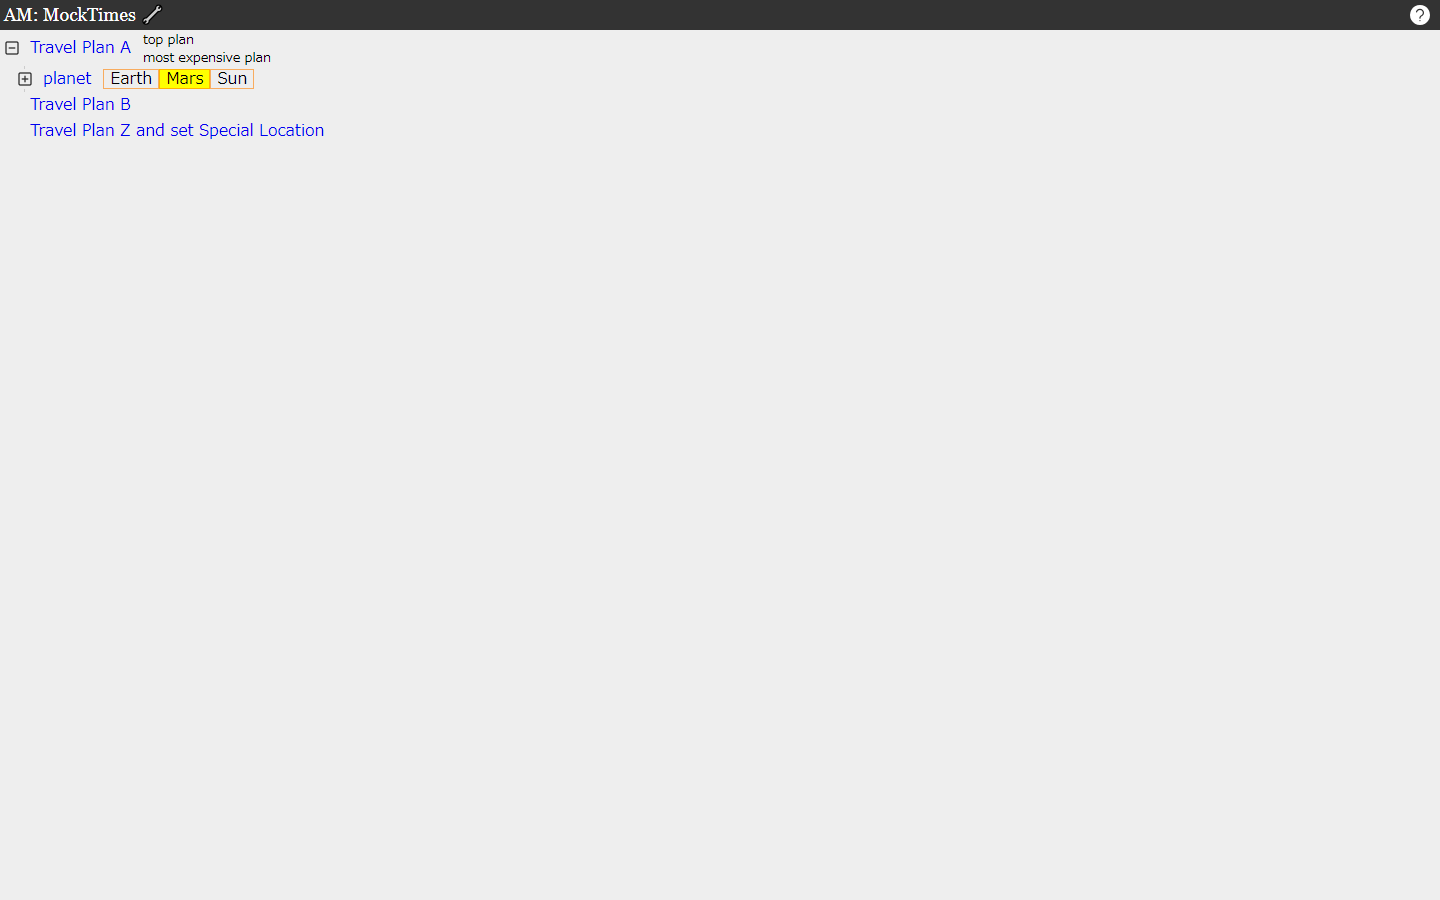
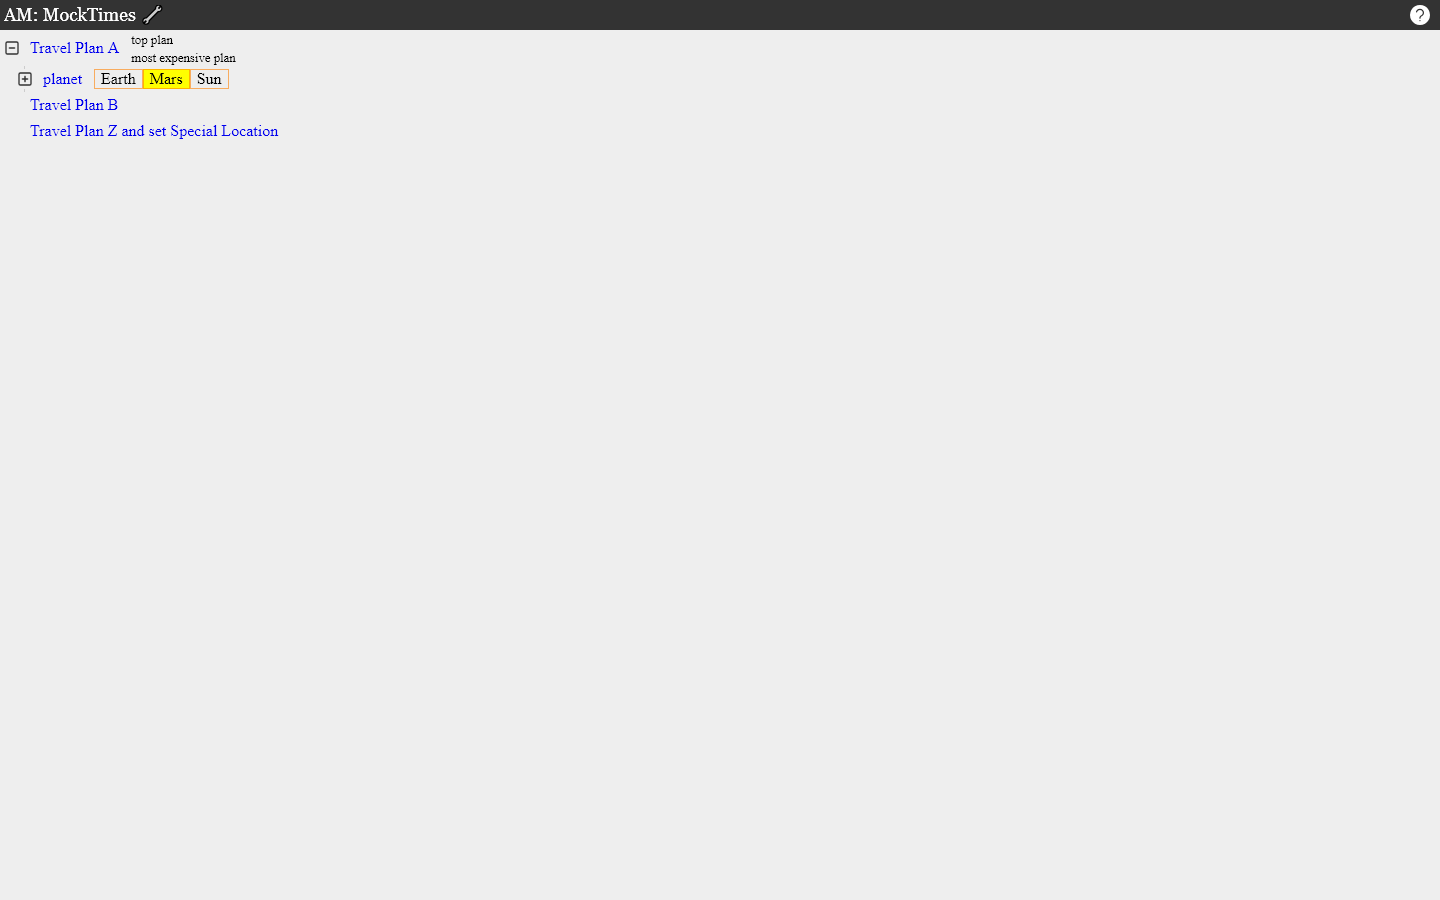
puppetterに乗り換え

Changed region(s): [[0.0, 0.0, 0.2188, 0.1556]]

diff --git a/bin/index.js b/bin/index.js
@@ -242,17 +242,20 @@ process.on('unhandledRejection', console.dir)
 const start = async () => {
   switch (command) {
     case 'screenshot':
-      const { Chromeless } = require('chromeless')
       const filenamify = require('filenamify')
-      const chromeless = new Chromeless({
-        viewport: {
-          width: argv.width,
-          height: argv.height
-        }
-      })
+      const puppeteer = require('puppeteer')
+      const browser = await puppeteer.launch()
+      const page = await browser.newPage()
       const { FINISHED_ATTR } = require('../src/const/dom')
 
-      const linkInfoStr = await chromeless.goto(url).evaluate(() => {
+      page.setViewport({
+        width: argv.width,
+        height: argv.height
+      })
+
+      await page.goto(url)
+
+      const linkInfoStr = await page.evaluate(() => {
         // this will be executed in Chrome
         const linkInfo = Array.from(
           document.querySelectorAll(`[data-mock-links]`)
@@ -269,19 +272,25 @@ const start = async () => {
       await fs.ensureDir(imgDir)
 
       for (const linkInfoItem of linkInfo) {
-        await chromeless
-          .goto(linkInfoItem.href)
-          .wait(`[${FINISHED_ATTR}]`)
-          .screenshot({
-            filePath: path.join(
-              process.cwd(),
-              outDir,
-              filenamify(`${linkInfoItem.name}.png`)
-            )
-          })
+        const outputError = e => {
+          console.error(linkInfoItem.name, '\n', e, '\n')
+        }
+        page.on('pageerror', outputError)
+
+        await page.goto(linkInfoItem.href)
+        await page.waitFor(`[${FINISHED_ATTR}]`)
+        await page.screenshot({
+          path: path.join(
+            process.cwd(),
+            outDir,
+            filenamify(`${linkInfoItem.name}.png`)
+          )
+        })
+
+        page.removeListener('pageerror', outputError)
       }
 
-      await chromeless.end()
+      await browser.close()
       return
     case 'watch':
       rimraf.sync(outDir)
